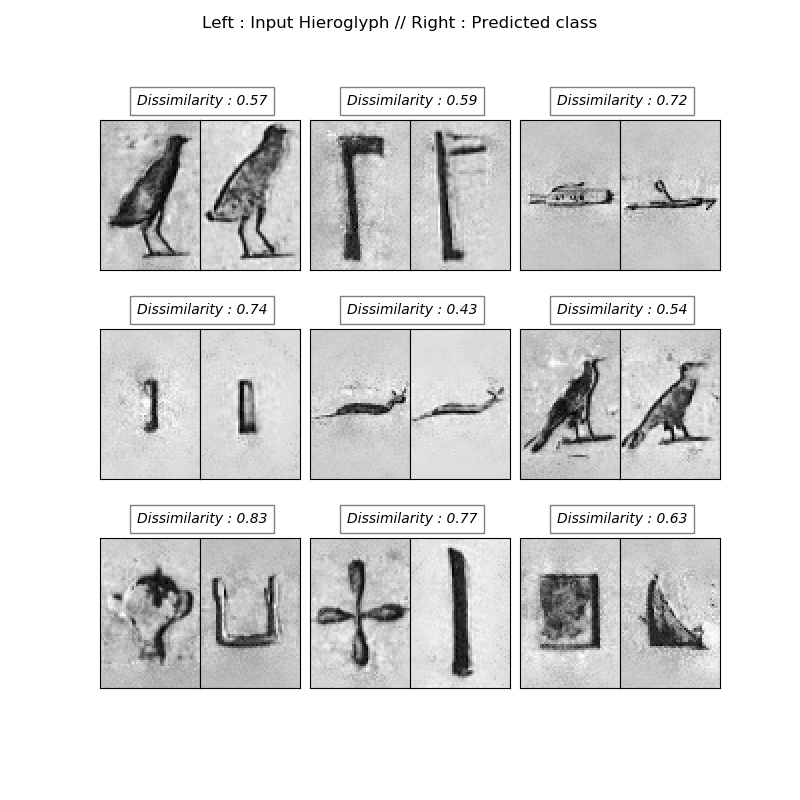
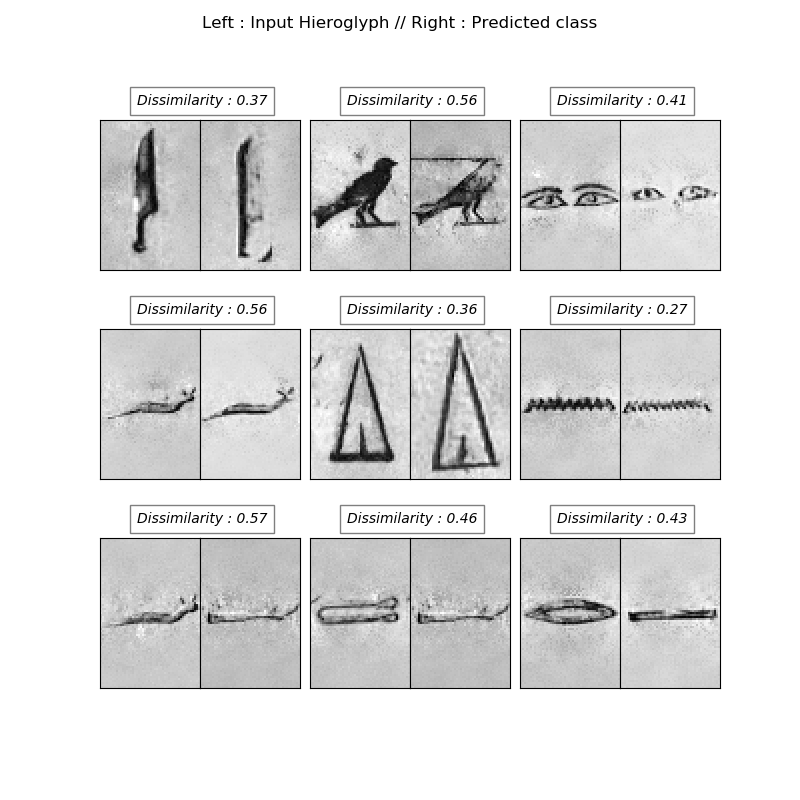
screenshots

diff --git a/hieroRecognition.py b/hieroRecognition.py
@@ -415,13 +415,13 @@ plt.ioff()
 outer_grid = gridspec.GridSpec(3, 3, wspace=0.05, hspace=0.05)
 
 for i in range(9):
-    dist, hieroglyph = which_hiero(test_hiero[i+23], dico_hiero)
-    print("True Hieroglyph : " ,labels_true[ntrain+i+23],"// Predicted : " ,hieroglyph, "dist : ", dist)
+    dist, hieroglyph = which_hiero(test_hiero[i+5], dico_hiero)
+    print("True Hieroglyph : " ,labels_true[ntrain+i+5],"// Predicted : " ,hieroglyph, "dist : ", dist)
 
     inner_grid = gridspec.GridSpecFromSubplotSpec(1, 2, subplot_spec=outer_grid[i], wspace=0.0, hspace=0.0)
 
     ax = plt.Subplot(fig, inner_grid[0])
-    ax.imshow(test_data[i+23].reshape(img_height, img_width),cmap='gray')
+    ax.imshow(test_data[i+5].reshape(img_height, img_width),cmap='gray')
     ax.set_xticks([])
     ax.set_yticks([])
     fig.add_subplot(ax)

diff --git a/README.md b/README.md
@@ -20,9 +20,9 @@ True Hieroglyph :  G17 // Predicted :  G21 dist :  0.41295210841828955
 
 TO DO LIST : 
 - check all the variables used and remove the useless
-- implement a way to visualize the results with pictures and not the labels - in work
+- implement a way to visualize the results with pictures and not the labels - done
+- improve the neural network - in work
 - improve the database used for train and test
-- improve the neural network
 - use the model with transfer learning already implemented (model_online) convert to RGB
 - implement a contrastive loss
 - write an explanation of the model 
